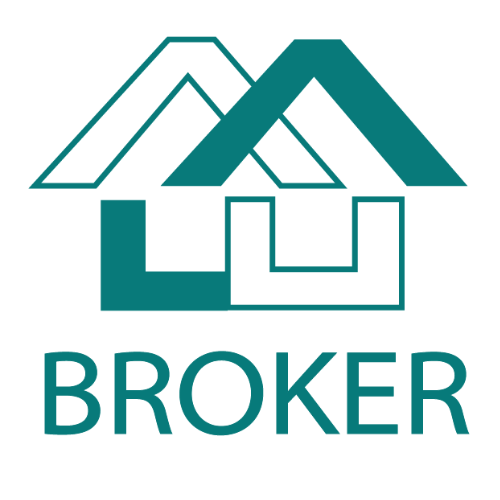
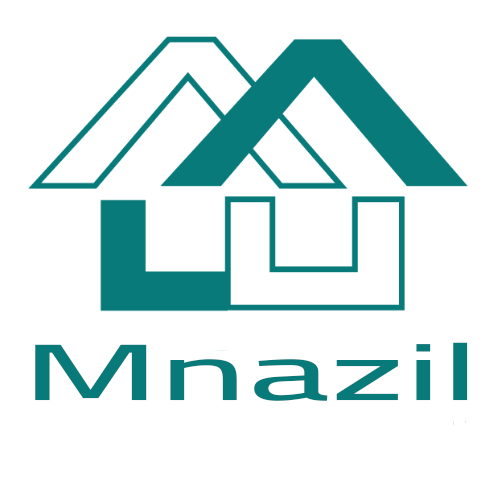
allllll done

Changed region(s): [[0.06, 0.66, 0.96, 0.87]]

diff --git a/web/index.html b/web/index.html
@@ -23,13 +23,13 @@
   <!-- iOS meta tags & icons -->
   <meta name="apple-mobile-web-app-capable" content="yes">
   <meta name="apple-mobile-web-app-status-bar-style" content="black">
-  <meta name="apple-mobile-web-app-title" content="Broker">
+  <meta name="apple-mobile-web-app-title" content="Mnazil">
   <link rel="apple-touch-icon" href="icons/Icon-192.png">
 
   <!-- Favicon -->
   <link rel="icon" type="image/png" href="favicon.png"/>
 
-  <title>Broker</title>
+  <title>Mnazil</title>
   <link rel="manifest" href="manifest.json">
 
   <script>

diff --git a/lib/settings.dart b/lib/settings.dart
@@ -7,7 +7,7 @@ import 'package:google_maps_flutter/google_maps_flutter.dart';
 /// For theme colors go to [lib/Ui/Theme/theme.dart]
 class AppSettings {
   ///Basic Settings
-  static const String applicationName = 'Broker';
+  static const String applicationName = 'Mnazil';
   static const String androidPackageName = 'com.topbusiness.broker';
   static const String iOSAppId = '12345678';
   static const String playstoreURLAndroid =

diff --git a/lib/main.dart b/lib/main.dart
@@ -5,7 +5,7 @@ import 'Ui/screens/ChatNew/MessageTypes/registerar.dart';
 import 'exports/main_export.dart';
 
 ////////////////
-///V-1.1.2 ..////
+//! V-1.1.2 ..
 ////////////
 //asasasas
 void main() => initApp();
